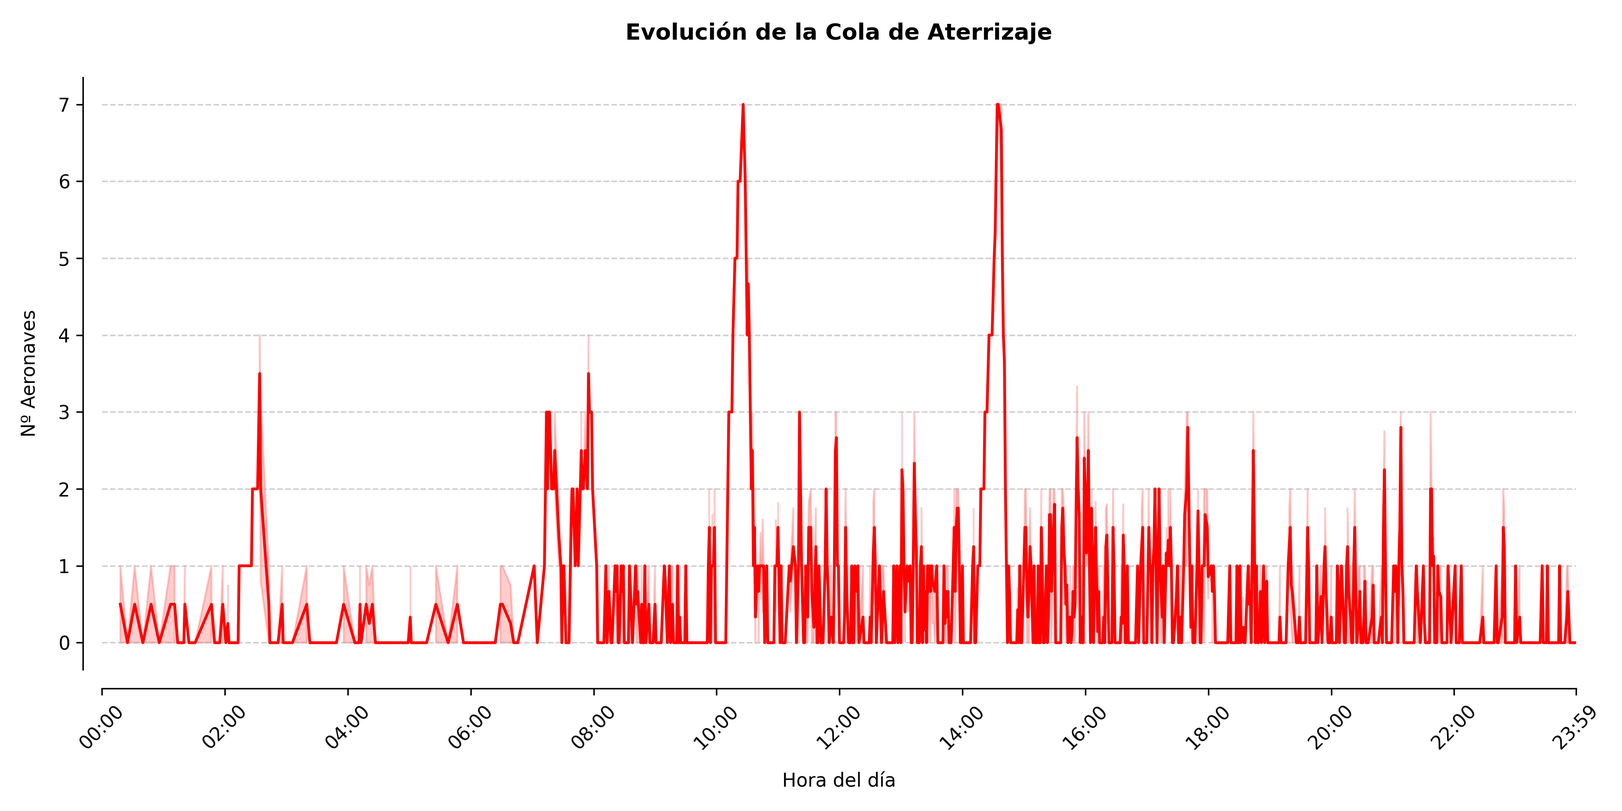
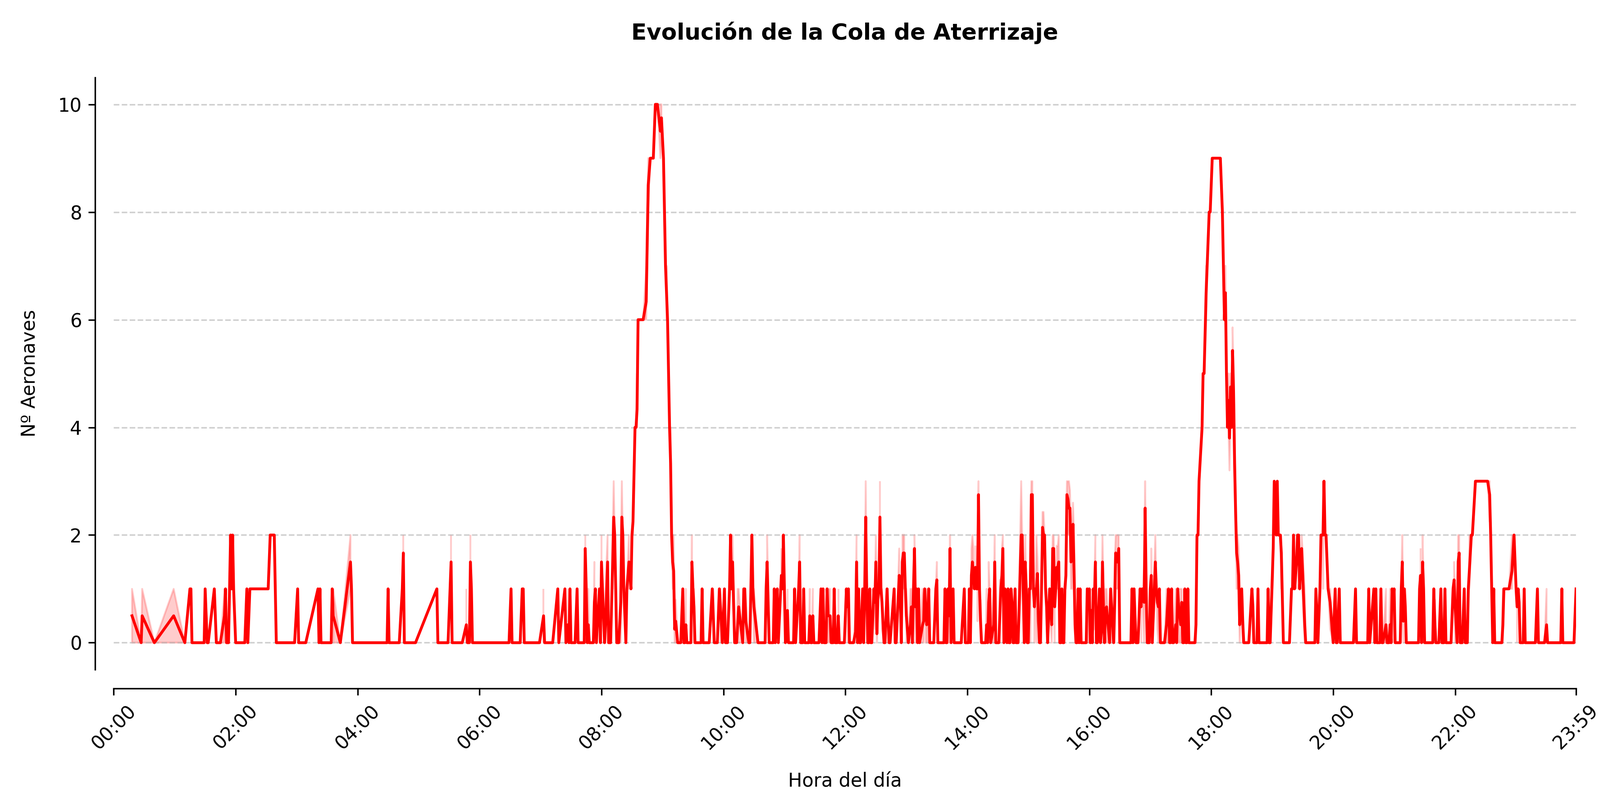
cambios en memoria

diff --git a/memoria/secciones/Prototipo2.tex b/memoria/secciones/Prototipo2.tex
@@ -138,51 +138,49 @@ Para empezar, vamos a ver cómo evoluciona la cola de llegadas tras la incorpora
     \centering
     \includegraphics[width=\textwidth]{portada/EvolucionColaAterrizaje.png}
     \caption{Evolución de la Cola de Aterrizaje}
-    \label{Evolución de la Cola de Aterrizaje}
+    \label{fig:Evolución de la Cola de Aterrizaje}
 \end{figure}
 \\
-Se observa que la cola se aerca a su límite justo cuando se cierra la pista por mantenimiento. Esto coincide además con una franja horaria en la que llegan más vuelos, por lo que el cierre provoca que la cola se llene más rápido.
+Se observa que cuando la pista se cierra por mantenimiento la cola de llegadas se satura rápidamente, llegando a su máximo de 10 aeronaves sobre las 8:30. Esto ocurre además en una franja horaria con mayor demanda (Turno de Mañana), lo que hace que la cola se llene aún más rápido. Más adelante, alrededor de las 18:00, aparece otro pico similar, lo que indica que estos dos periodos son críticos para la operación del aeropuerto.
 \\
 \\
 Para continuar, vamos a seguir con el numero total de operaciones aéreas por turno, para ver la cantidad que hay en cada turno y los posibles cuellos de botella:
+\\
+\\
 \begin{figure}[h!]
     \centering
     \includegraphics[width=\textwidth]{portada/TotalPorTurnoJulio2.png}
     \caption{Ops. Aereas por Turno Escenario Base PR2}
-    \label{Ops. Aereas por Turno Escenario Base PR2}
+    \label{fig:Ops. Aereas por Turno Escenario Base PR2}
 \end{figure}
+\\
+\\
 \begin{figure}[h!]
     \centering
     \includegraphics[width=\textwidth]{portada/TotalPorTurnoAtasco2.png}
     \caption{Ops. Aereas por Turno Escenario de Estrés PR2}
-    \label{Ops. Aereas por Turno Escenario de Estrés PR2}
+    \label{fig:Ops. Aereas por Turno Escenario de Estrés PR2}
 \end{figure}
-\begin{figure}[h!]
+\begin{figure}[H]
     \centering
     \includegraphics[width=\textwidth]{portada/TotalPorTurnoEnero2.png}
     \caption{Ops. Aereas por Turno Escenario Adverso PR2}
-    \label{Ops. Aereas por Turno Escenario Adverso PR2}
+    \label{fig:Ops. Aereas por Turno Escenario Adverso PR2}
 \end{figure}
-\\
-\\
-\\
-\\
-Después de ver los tres gráficos se puede observar que al igual que en el primer prototipo, los turnos de madrugada y noche son los de menor tráfico. El Escenario Adverso \ref{Ops. Aereas por Turno Escenario Adverso PR2} actúa como un escalón intermedio, ya que eleva las operaciones moderadamente respecto al Escenario Base \ref{Ops. Aereas por Turno Escenario Base PR2}. En cambio, el Escenario de Estrés \ref{Ops. Aereas por Turno Escenario de Estrés PR2} es drástico, ya que duplica el tráfico de madrugada y hace que el turno de noche supere al pico máximo de una tarde en el Base.
+Después de ver los tres gráficos se puede observar que al igual que en el primer prototipo, los turnos de madrugada y noche son los de menor tráfico. El Escenario Adverso \ref{fig:Ops. Aereas por Turno Escenario Adverso PR2} actúa como un escalón intermedio, ya que eleva las operaciones moderadamente respecto al Escenario Base \ref{fig:Ops. Aereas por Turno Escenario Base PR2}. En cambio, el Escenario de Estrés \ref{fig:Ops. Aereas por Turno Escenario de Estrés PR2} es drástico, ya que duplica el tráfico de madrugada y hace que el turno de noche supere al pico máximo de una tarde en el Base.
 \\
 \\
 En los turnos críticos de mañana y tarde,  en el Escenario Adverso  se aumentan tanto la carga como la dispersión de datos de sus operaciones. Por su parte, en el Escenario de Estrés el número de operaciones aéreas se dispara, duplicando en la tarde las operaciones del Escenario Base.
-\\
-\\
 \begin{figure}[H]
     \centering
-    \includegraphics[width=\textwidth]{portada/TotalPorTurnoCritico.png}
+    \includegraphics[width=0.9\textwidth]{portada/TotalPorTurnoCritico.png}
     \caption{Ops. Aereas por Turno Escenario Crítico}
-    \label{Ops. Aereas por Turno Escenario Crítico}
+    \label{fig:Ops. Aereas por Turno Escenario Crítico}
 \end{figure}
-El gráfico del Escenario Crítico \ref{Ops. Aereas por Turno Escenario Crítico} ofrece una perspectiva de la cantidad de operaciones aéreas acumulada durante la simulación continua de una semana (168 horas). El eje vertical representa el volumen total de operaciones procesadas durante los 7 días.
+El gráfico del Escenario Crítico \ref{fig:Ops. Aereas por Turno Escenario Crítico} ofrece una perspectiva de la cantidad de operaciones aéreas acumulada durante la simulación continua de una semana (168 horas). El eje vertical representa el volumen total de operaciones procesadas durante los 7 días.
 \\
 \\
-Después de analizar el gráfico, se observa que el turno de tarde es el período crítico de la operación, ya que acumula una mediana superior a 2350 operaciones (336 operaciones cada día), lo que supone un 25\% más de carga que el turno de tarde del Escenario de Estrés \ref{Ops. Aereas por Turno Escenario de Estrés PR2}.
+Después de analizar el gráfico, se observa que el turno de tarde es el período crítico de la operación, ya que acumula una mediana superior a 2350 operaciones (336 operaciones cada día), lo que supone un 25\% más de carga que el turno de tarde del Escenario de Estrés \ref{fig:Ops. Aereas por Turno Escenario de Estrés PR2}.
 \\
 \\
 Sin embargo, el resultado más destacable de este análisis es la baja dispersión de datos, ya que a pesar de introducir factores críticos como el aumento de la tasa de tráfico, los resultados apenas varían entre iteraciones, lo que indica que el simulador es robusto a nivel de ejecución.
@@ -193,35 +191,34 @@ Para analizar cómo responde el sistema ante una acumulación alta de operacione
     \centering
     \includegraphics[width=0.7\textwidth]{portada/HexbinJulio.png}
     \caption{Heatmap Escenario Base}
-    \label{Heatmap Escenario Base}
+    \label{fig:Heatmap Escenario Base}
 \end{figure}
 \begin{figure}[h!]
     \centering
     \includegraphics[width=0.7\textwidth]{portada/HexbinAtasco.png}
     \caption{Heatmap Escenario de Estrés}
-    \label{Heatmap Escenario de Estrés}
+    \label{fig:Heatmap Escenario de Estrés}
 \end{figure}
 \begin{figure}[H]
     \centering
     \includegraphics[width=0.7\textwidth]{portada/HexbinEnero.png}
     \caption{Heatmap Escenario Adverso}
-    \label{Heatmap Escenario Adverso}
+    \label{fig:Heatmap Escenario Adverso}
 \end{figure}
-
-Comparando los tres escenarios, se observa que el Escenario Base \ref{Heatmap Escenario Base} funciona de forma estable y bastante predecible. En su gráfico se muestra una diagonal clara y ascendente, lo que indica una correlación lineal, ya que el tiempo de ciclo aumenta proporcionalmente al tráfico, esto mantiene una disperisón baja y controlada.
+Comparando los tres escenarios, se observa que el Escenario Base \ref{fig:Heatmap Escenario Base} funciona de forma estable y bastante predecible. En su gráfico se muestra una diagonal clara y ascendente, lo que indica una correlación lineal, ya que el tiempo de ciclo aumenta proporcionalmente al tráfico, esto mantiene una disperisón baja y controlada.
 \\  
 \\
-En cambio, en el Escenario Adverso \ref{Heatmap Escenario Adverso} se rompe esa estabilidad. La distribución se desplaza mucho más hacia tiempos mayores (190 minutos) y los datos comienzan a dispersarse. Esto refleja que, ante un aumento de carga, el sistema ofrece mayor resistencia pero pierde eficiencia, costándole más procesar el flujo de aeronaves.
+En cambio, en el Escenario Adverso \ref{fig:Heatmap Escenario Adverso} se rompe esa estabilidad. La distribución se desplaza mucho más hacia tiempos mayores (190 minutos) y los datos comienzan a dispersarse. Esto refleja que, ante un aumento de carga, el sistema ofrece mayor resistencia pero pierde eficiencia, costándole más procesar el flujo de aeronaves.
 \\
 \\
-En el Escenario de Estrés \ref{Heatmap Escenario de Estrés}, el comportamiento cambia por completo y se vuelve crítico. Ya que, a diferencia de la estabilidad anterior, la zona de densidad forma una mancha masiva situada en la parte superior del gráfico, con un núcleo de operación centrado en 165-175 minutos y alcanzando extremos de casi 200 minutos, similares a los peores momentos del adverso. Esto pone en evidencia que con cargas de 600 a 750 operaciones, el aeropuerto opera permanentemente en estado de saturación, sin capacidad para reducir los retrasos.
+En el Escenario de Estrés \ref{fig:Heatmap Escenario de Estrés}, el comportamiento cambia por completo y se vuelve crítico. Ya que, a diferencia de la estabilidad anterior, la zona de densidad forma una mancha masiva situada en la parte superior del gráfico, con un núcleo de operación centrado en 165-175 minutos y alcanzando extremos de casi 200 minutos, similares a los peores momentos del adverso. Esto pone en evidencia que con cargas de 600 a 750 operaciones, el aeropuerto opera permanentemente en estado de saturación, sin capacidad para reducir los retrasos.
 \begin{figure}[H]
     \centering
     \includegraphics[width=0.7\textwidth]{portada/HexbinCritico.png}
     \caption{Heatmap Escenario Crítico}
-    \label{Heatmap Escenario Crítico}
+    \label{fig:Heatmap Escenario Crítico}
 \end{figure}
-Tras analizar el resultado de la gráfica \ref{Heatmap Escenario Crítico}, a primera vista los datos resultan alarmantes. En este escenario, el número de operaciones es claramente superior al de los demás, y el tiempo de ciclo alcanza valores elevados. De primeras, el volumen total de operaciones, puede parecer una cifra alta, sin embargo, al ser una simulación de siete días, esto equivale a una media de 800 operaciones diarias.
+Tras analizar el resultado de la gráfica \ref{fig:Heatmap Escenario Crítico}, a primera vista los datos resultan alarmantes. En este escenario, el número de operaciones es claramente superior al de los demás, y el tiempo de ciclo alcanza valores elevados. De primeras, el volumen total de operaciones, puede parecer una cifra alta, sin embargo, al ser una simulación de siete días, esto equivale a una media de 800 operaciones diarias.
 \\
 \\
 Como consecuencia, se observan picos de hasta 960 minutos y una media cercana a los 900 minutos, lo que indica una saturación intensa a lo largo de los días. El sistema no tiene tiempo a recuperarse y supera su punto de retorno: incluso los períodos de menor actividad, como la madrugada, no logran absorber los retrasos acumulados, esto hace que la congestión continué aumentando de forma progresiva.
@@ -230,34 +227,44 @@ Como consecuencia, se observan picos de hasta 960 minutos y una media cercana a 
 Para este prototipo también se han generado varios gráficos en los que se representa el número de pasajeros por iteración, así como la media de pasajeros por aeronave en cada una de ellas. Estos resultados permiten analizar cómo evoluciona el flujo de pasajeros a lo largo de la simulación y comprender mejor su comportamiento en este prototipo. A continuación, se presentan los gráficos correspondientes:
 \\
 \\
+Con el fin de mejorar la legibilidad y faciliatar la interpretación, se muestran en esta sección únicamente 10 iteraciones representativas de las 75 totales. Los gráficos completos, que incluyen todas las iteraciones, se presentan en \ref{anexo:GraficosCompletos}.
 \begin{figure}[h!]
     \centering
     \includegraphics[width=\textwidth]{portada/PasajerosItersSoleado.png}
     \caption{Gráfica Pasajeros Escenario Base}
-    \label{Gráfica Pasajeros Escenario Base}
+    \label{fig:Gráfica Pasajeros Escenario Base}
 \end{figure}
 \begin{figure}[h!]
     \centering
     \includegraphics[width=\textwidth]{portada/PasajerosItersAtasco.png}
     \caption{Gráfica Pasajeros Escenario de Estrés}
-    \label{Gráfica Pasajeros Escenario de Estrés}
+    \label{fig:Gráfica Pasajeros Escenario de Estrés}
 \end{figure}
 \begin{figure}[H]
     \centering
     \includegraphics[width=\textwidth]{portada/PasajerosItersEnero.png}
     \caption{Gráfica Pasajeros Escenario Adverso}
-    \label{Gráfica Pasajeros Escenario Adverso}
+    \label{fig:Gráfica Pasajeros Escenario Adverso}
 \end{figure}
-Se puede observar como evoluciona el flujo de pasajeros en cada escenario en función de la carga de operaciones. En el escenario base, el sistema gestiona un volumen medio de aproximadamente 64000 pasajeros diarios, lo que representa un nivel de operación estable y adecuado bajo condiciones normales.
+Se puede observar como evoluciona el flujo de pasajeros en cada escenario en función de la carga de operaciones. En el Escenario Base \ref{fig:Gráfica Pasajeros Escenario Base}, el sistema gestiona un volumen medio de aproximadamente 64.000 pasajeros diarios, lo que representa un nivel de operación estable y adecuado bajo condiciones normales.
 \\
 \\
-En el Escenario Adverso, a pesar de las dificultades meteorológicas, el incremento en la tasa de tráfico eleva el flujo hasta unos 82000 pasajeros diarios. Esto supone un aumento del 28\% respecto al Escenario Base, lo que incrementa la presión sobre el sistema aeroportuario y contribuye a una mayor saturación.
+En el Escenario Adverso \ref{fig:Gráfica Pasajeros Escenario Adverso}, a pesar de las dificultades meteorológicas, el incremento en la tasa de tráfico eleva el flujo hasta unos 82.000 pasajeros diarios. Esto supone un aumento del 28\% respecto al Escenario Base, lo que incrementa la presión sobre el sistema aeroportuario y contribuye a una mayor saturación.
 \\
 \\
-Finalmente, en el Escenario de Estrés, el salto es mucho más grande,  ya que el volumen de pasajeros se dispara hasta alcanzar aproximadamente 135000 pasajeros diarios. Este valor representa un incremento de más del 110\% respecto a las condiciones normales, indicando que el sistema no solo se ve sometido a una carga extrema de aeronaves, sino también a un flujo masivo y continuo de pasajeros.
+En el Escenario de Estrés \ref{fig:Gráfica Pasajeros Escenario de Estrés}, el salto es mucho más grande,  ya que el volumen de pasajeros se dispara hasta alcanzar aproximadamente 135.000 pasajeros diarios. Este valor representa un incremento de más del 110\% respecto a las condiciones normales, indicando que el sistema no solo se ve sometido a una carga extrema de aeronaves, sino también a un flujo masivo y continuo de pasajeros.
 \begin{figure}[h!]
     \centering
     \includegraphics[width=\textwidth]{portada/PasajerosItersCritico.png}
     \caption{Gráfica Pasajeros Escenario Crítico}
-    \label{Gráfica Pasajeros Escenario Crítico}
+    \label{fig:Gráfica Pasajeros Escenario Crítico}
 \end{figure}
+\\
+Finalmente, el gráfico del Escenario Crítico \ref{fig:Gráfica Pasajeros Escenario Crítico} nos permite analizar la demanda total de pasajeros a lo largo de 168 horas de simulación (1 semana). En este caso se observa un cambio claro de escala, ya que el volumen acumulado de pasajeros alcanza valores cercanos a 1.100.000 pasajeros por iteración. Si esa cifra se reparte a lo largo de la semana equivale a una media de aproximadamente 157.000 pasajeros diarios, lo que supera el número registrado en el Escenario de Estrés.
+\\
+\\
+Este nivel de demanda de pasajeros explica la saturación observada en los análisis anteriores, ya que el sistema se mantiene sometido a una carga muy elevada de forma continua durante varios días, sin tener casi margen para recuperarse.
+\\
+\\
+En cuanto a la media de pasajeros por aeronave, se mantiene muy estable con valores cercanos a 196 pasajeros. Además, la similitud de resultados entre las distintas iteraciones confirma que el comportamiento del modelo es consistente.
+

diff --git a/memoria/secciones/ModeloEmpiricoDescriptivo.tex b/memoria/secciones/ModeloEmpiricoDescriptivo.tex
@@ -50,24 +50,24 @@ Las variables de estado son fundamentales para analizar la eficiencia de las ope
     \begin{itemize}
         \item Pista de Aterrizaje: Cada aeronave debe solicitar permiso para poder aterrizar. La pista cuenta con una capacidad máxima de 10 aeronaves en cola, lo que permite un flujo ordenado y seguro durante las operaciones de llegada.
         \item Pista de Despegue: Cada aeronave debe solicitar autorización para utilizar pista. Esta también tiene una capacidad máxima de 10 aeronavess en cola, garantizando un control adecuado del tráfico aéreo y evitando congestiones en las salidas.
-        \item Parking: es el área donde las aeronaves permanecen estacionadas después de aterrizar. Actualmente, su capacidad es ilimitada, aunque se recomienda establecer un tope para optimizar el uso de espacio. 
+        \item Parking: Es el área donde las aeronaves permanecen estacionadas después de aterrizar. Actualmente, su capacidad es ilimitada, aunque se recomienda establecer un tope para optimizar el uso de espacio. 
     \end{itemize}
-    \item Variables de estado operacional: se enfocan en la posición en el tiempo y en la lógica de la simulación. La variable principal, denominada \textbf{\textit{estado}} es actualizada por cada evento de la simulación, lo que permite trazar y garantizar la secuencia lógica y cronológica de las operaciones.
+    \item Variables de estado operacional: Se enfocan en la posición en el tiempo y en la lógica de la simulación. La variable principal, denominada \textbf{\textit{estado}} es actualizada por cada evento de la simulación, lo que permite trazar y garantizar la secuencia lógica y cronológica de las operaciones.
     \
 \end{itemize}
 
 \section{Aeronaves}
 Distinguir los tipos de aeronaves que operan en el aeropuerto es crucial para la simulación. Esta clasificación permite identificar información esencial sobre cada vuelo. En el modelo de simulación se han clasificado dos categorías fundamentales:
 \begin{itemize}
-    \item Aeronaves comerciales: engloba todas las aeronaves que transportan pasajeros, independientemente de su tamaño.
-    \item Aeronaves de carga: aeronaves dedicadas exclusivamente al transporte de mercancías (suele ser la minoría). Su característica es que no llevan pasajeros y sus tiempos en tierra suelen ser diferentes.
+    \item Aeronaves comerciales: Engloba todas las aeronaves que transportan pasajeros, independientemente de su tamaño.
+    \item Aeronaves de carga: Aeronaves dedicadas exclusivamente al transporte de mercancías (suele ser la minoría). Su característica es que no llevan pasajeros y sus tiempos en tierra suelen ser diferentes.
 \end{itemize}
 
 \section{Pistas}
 Las pistas son elementos clave en la infraestructura aeroportuaria y actúan como los servidores principales dentro del modelo matemático de colas que representa el flujo de aeronaves. Cada pista funciona de manera independiente y, habitualmente, se modela usando un sistema de colas M/M/1:
 \begin{itemize}  
-    \item Pista de aterrizaje: representa el punto de entrada al sistema aeroportuario para las aeronaves, su función es procesar las operaciones de aterrizaje.
-    \item Pista de despegue: este recurso actúa como punto de salida del sistema para las aeronaves que han completado sus operaciones en tierra, se utiliza exclusivamente para las maniobras de despegue.
+    \item Pista de aterrizaje: Representa el punto de entrada al sistema aeroportuario para las aeronaves, su función es procesar las operaciones de aterrizaje.
+    \item Pista de despegue: Este recurso actúa como punto de salida del sistema para las aeronaves que han completado sus operaciones en tierra, se utiliza exclusivamente para las maniobras de despegue.
 \end{itemize}
 Las pistas, por lo tanto, son componentes esenciales, ya que gobiernan directamente el rendimiento del sistema, la formación de colas y los tiempos de espera.
 \section{Gestión de Plataforma}

diff --git a/memoria/secciones/anexo1.tex b/memoria/secciones/anexo1.tex
@@ -1,6 +1,9 @@
 \chapter{Primer anexo}
 \section{Módulos del programa}
 \label{anexo:ficheros del programa}
+En esta seccion se presentan los ficheros .py que forman parte del trabajo. Cada uno de ellos incluye una referencia a su correspondiente enlace en Github y se encarga de implementar funcionalidad específicas dentro del proyecto.
+\\
+\\
 \href{https://github.com/Furio14/TFG/blob/main/src/TorreDeControl.py}{TorreDeControl.py}
 \\
 \href{https://github.com/Furio14/TFG/blob/main/src/GeneradorAeronaves.py}{GeneradorAeronaves.py}
@@ -21,6 +24,9 @@
 
 \section{Código fuente de la simulación}
 \label{anexo:codigoFuente}
+Para facilitar la comprensión del funcionamiento del simulador y mostrar de manera clara cómo se implementan los componentes, en esta sección se presentan los fragmentos de código más relevantes.
+\\
+\\
 \begin{lstlisting}[language = Python,frame = single,caption = {Generador de aeronaves},label=listing:lst1,captionpos=b,breaklines=true,breakatwhitespace=false]
     def generador(evento):
         vueloRandom = random.choice(listaVuelos)
@@ -223,3 +229,30 @@
             evento.process(cicloAvion(evento,avion,parking,anuncio,pistaAterrizajes,pistaDespegues,colaAterrizajes,colaEstacionados,colaSalidas,colaDespegues,estadoClima,mes,turnos,aeronaves))
 \end{lstlisting}
 
+\section{Gráficos Completos}
+\label{anexo:GraficosCompletos}
+Con el fin de representar los gráficos de manera completa y asegurar que se visualicen correctamente, en este apartado se muestran los gráficos completos correspondientes a todas las iteraciones realizadas.
+\begin{figure}[h!]
+    \centering
+    \includegraphics[width=\textwidth]{portada/PasajerosvolumenEnteroSoleado.png}
+    \caption{Gráfica Pasajeros Volumen Entero Escenario Base}
+    \label{Gráfica Pasajeros Volumen Entero Escenario Base}
+\end{figure}
+\begin{figure}[h!]
+    \centering
+    \includegraphics[width=\textwidth]{portada/PasajerosvolumenEnteroAtasco.png}
+    \caption{Gráfica Pasajeros Volumen Entero Escenario de Estrés}
+    \label{Gráfica Pasajeros Volumen Entero Escenario de Estrés}
+\end{figure}
+\begin{figure}[h!]
+    \centering
+    \includegraphics[width=\textwidth]{portada/PasajerosvolumenEnteroEnero.png}
+    \caption{Gráfica Pasajeros Volumen Entero Escenario Adverso}
+    \label{Gráfica Pasajeros Volumen Entero Escenario Adverso}
+\end{figure}
+\begin{figure}[h!]
+    \centering
+    \includegraphics[width=\textwidth]{portada/PasajerosvolumenEnteroCritico.png}
+    \caption{Gráfica Pasajeros Volumen Entero Escenario Crítico}
+    \label{Gráfica Pasajeros Volumen Entero Escenario Crítico}
+\end{figure}

diff --git a/memoria/secciones/Prototipo1.tex b/memoria/secciones/Prototipo1.tex
@@ -637,7 +637,7 @@ Para facilitar la interpretación de los resultados, se realizará una comparaci
 Al analizar los tres gráficos, se puede observar que todos mantienen el mismo patrón estructural: la madrugada tiene el menor número de operaciones, seguida por la noche y la mañana, mientras que la tarde alcanza el pico más alto. Esto confirma que la lógica de distribución horaria del simulador es consistente, sin importar la cantidad de datos.
 \\
 \\
-Sin embargo, existen diferencias notables en la cantidad de operaciones por escenario. El escenario de estrés (\ref{fig:Ops. Aereas por Turno Escenario de Estrés}) es, sin ninguna duda, el que mayor actividad presenta. En este gráfico, la mediana supera las 280 operaciones, llegando a máximos por encima de 300. Por el contrario, la brecha entre el escenario base (\ref{fig:Ops. Aereas por Turno Escenario Base}) y el adverso (\ref{fig:Ops. Aereas por Turno Escenario Adverso}) es mucho menor. El escenario base muestra una mediana cercana a 140 operaciones, mientras que el escenario adverso se sitúa en torno a 175.
+Sin embargo, existen diferencias notables en la cantidad de operaciones por escenario. El escenario de estrés (\ref{fig:Ops. Aereas por Turno Escenario de Estrés PR1}) es, sin ninguna duda, el que mayor actividad presenta. En este gráfico, la mediana supera las 280 operaciones, llegando a máximos por encima de 300. Por el contrario, la brecha entre el escenario base (\ref{fig:Ops. Aereas por Turno Escenario Base PR1}) y el adverso (\ref{fig:Ops. Aereas por Turno Escenario Adverso PR1}) es mucho menor. El escenario base muestra una mediana cercana a 140 operaciones, mientras que el escenario adverso se sitúa en torno a 175.
 \\
 \\
 Además, la presencia de los outliers también aporta información clave. En el escenario de atasco, estos valores de la tarde ponen de manifiesto la inestabilidad del sistema.En el escenario adverso, los outliers se concentran en la madrugada y la noche, probablemente ligados a la variación meteorológica. Por el contrario, el escenario de enero destaca por ser mucho más compacto y predecible, sin presentar estas irregularidades.

diff --git a/memoria/secciones/conclusiones.tex b/memoria/secciones/conclusiones.tex
@@ -1,4 +1,2 @@
 \chapter{Resultados y Conclusiones}
-
-Resumen de resultados obtenidos en el trabajo, conclusiones sobre los mismos y
-potencial trabajo futuro si existiera.
+Una vez implementados y validados ambos prototipos, es necesario analizar los datos obtenidos. En este capítulo se comparan ambos prototipos con el objetivo de evaluar cuál de ellos ofrece un mayor grado de realismo y una representación fiel del flujo de operaciones y sistemas auxiliares. Por último, se presenta una síntesis de los resultados más relevantes del estudio y se proponen algunas ideas para mejorar y ampliar el modelo en trabajos futuros.

diff --git a/memoria/tfg_etsiinf_plantilla.tex b/memoria/tfg_etsiinf_plantilla.tex
@@ -127,6 +127,8 @@
 
 %% -----------------------------------------------
 \tableofcontents
+\listoffigures
+\listoftables
 
 \mainmatter % numeración arábiga
 
